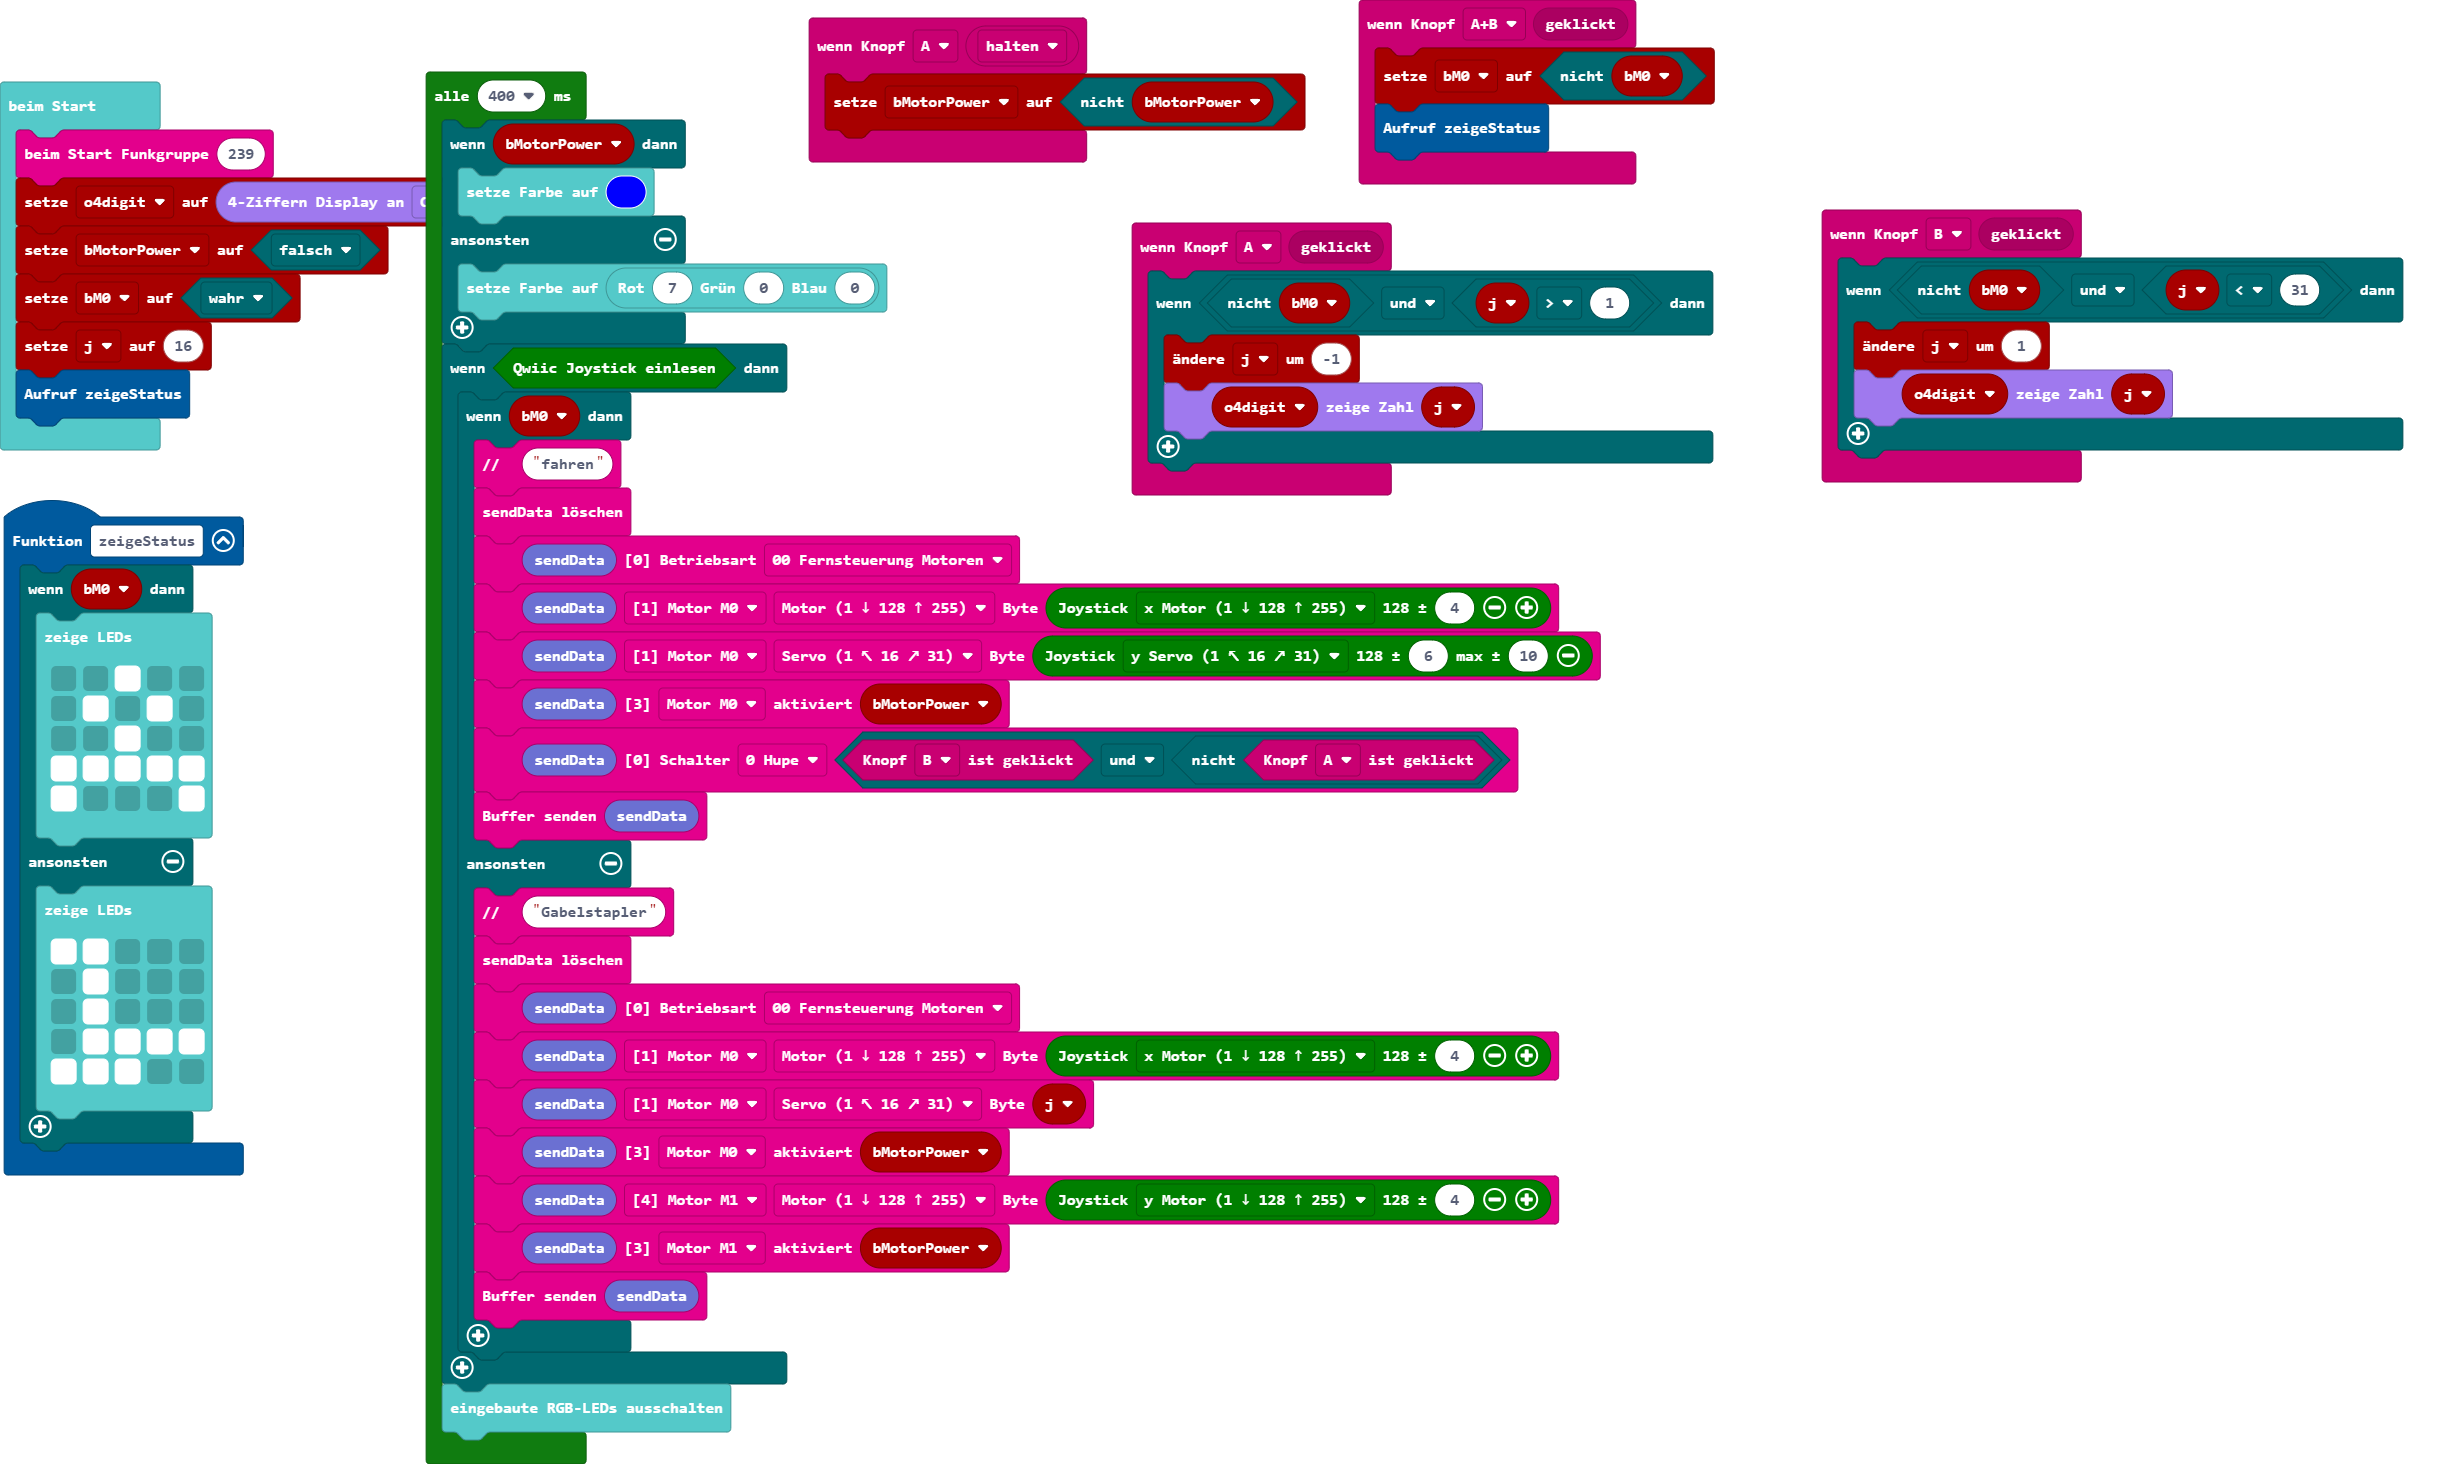
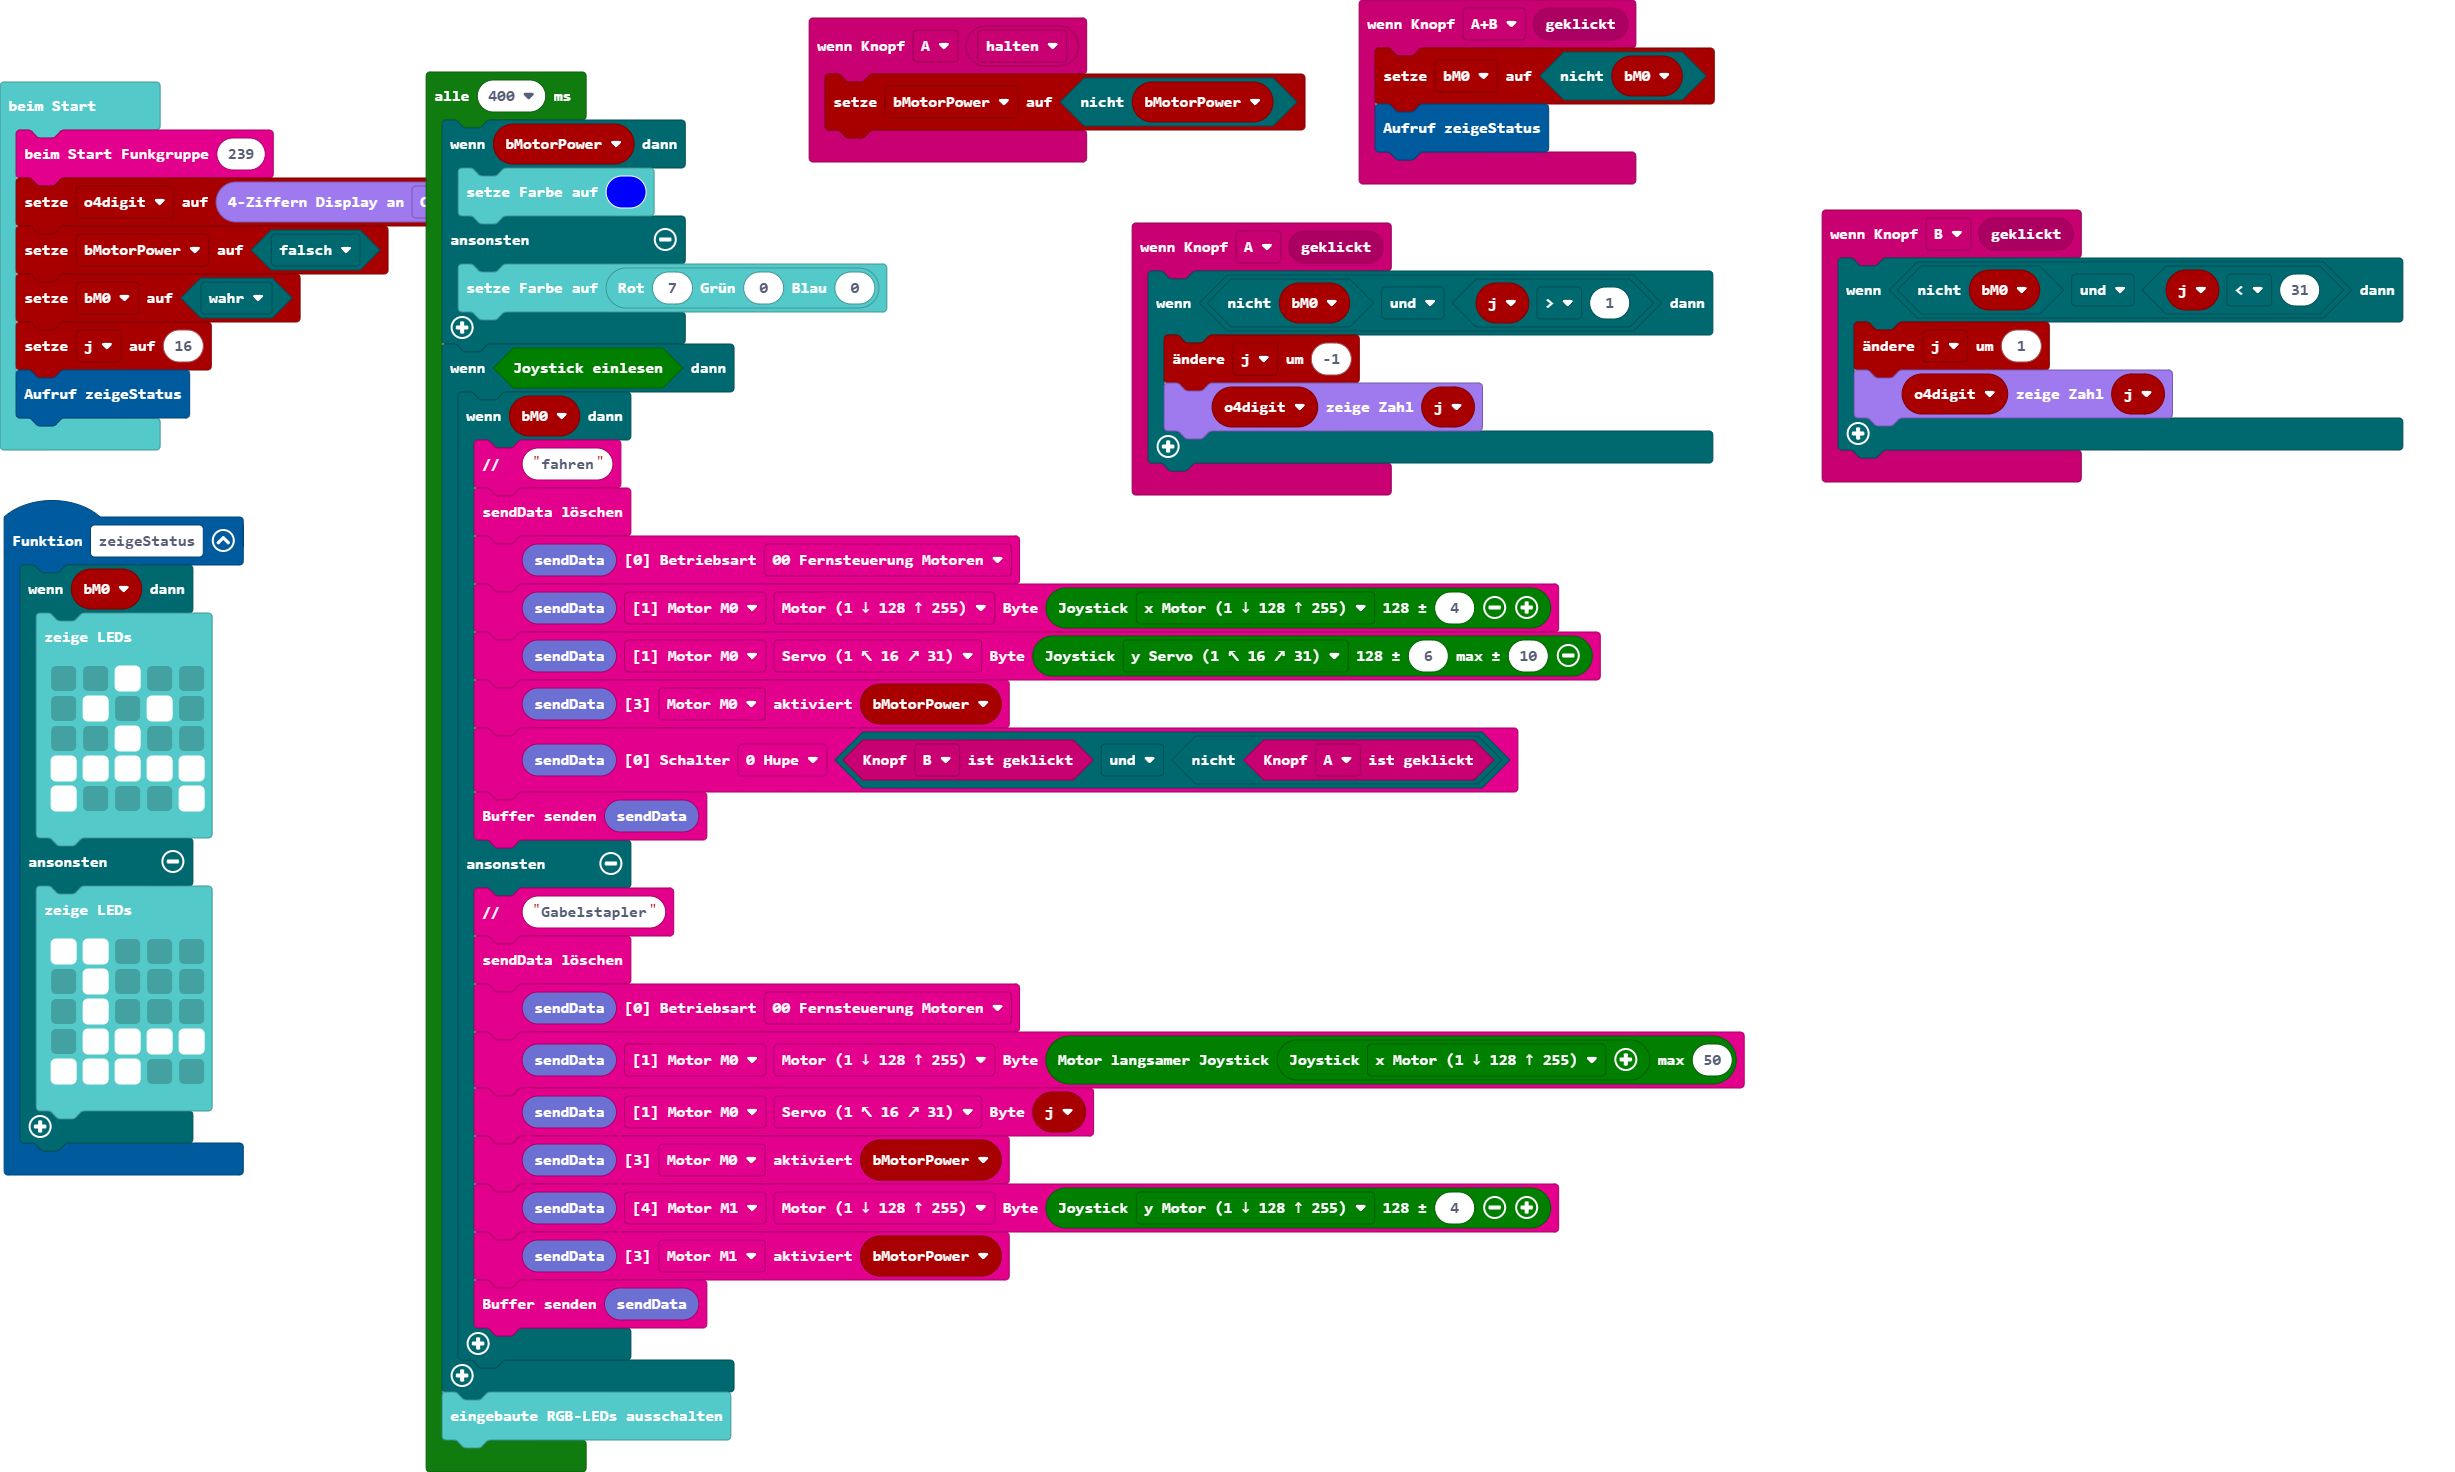
Aktualisiere pxt.json, main.blocks, main.ts

diff --git a/main.ts b/main.ts
@@ -66,7 +66,7 @@ loops.everyInterval(400, function () {
             radio.comment("Gabelstapler")
             radio.fill_sendBuffer19()
             radio.setBetriebsart(radio.radio_sendBuffer19(), radio.e0Betriebsart.p0)
-            radio.setByte(radio.radio_sendBuffer19(), radio.eBufferPointer.m0, radio.eBufferOffset.b0_Motor, radio.joystickValue(radio.eJoystickValue.motor, 4))
+            radio.setByte(radio.radio_sendBuffer19(), radio.eBufferPointer.m0, radio.eBufferOffset.b0_Motor, radio.motorProzent(radio.joystickValue(radio.eJoystickValue.motor), 50))
             radio.setByte(radio.radio_sendBuffer19(), radio.eBufferPointer.m0, radio.eBufferOffset.b1_Servo, j)
             radio.setaktiviert(radio.radio_sendBuffer19(), radio.e3aktiviert.m0, bMotorPower)
             radio.setByte(radio.radio_sendBuffer19(), radio.eBufferPointer.m1, radio.eBufferOffset.b0_Motor, radio.joystickValue(radio.eJoystickValue.ymotor, 4))
